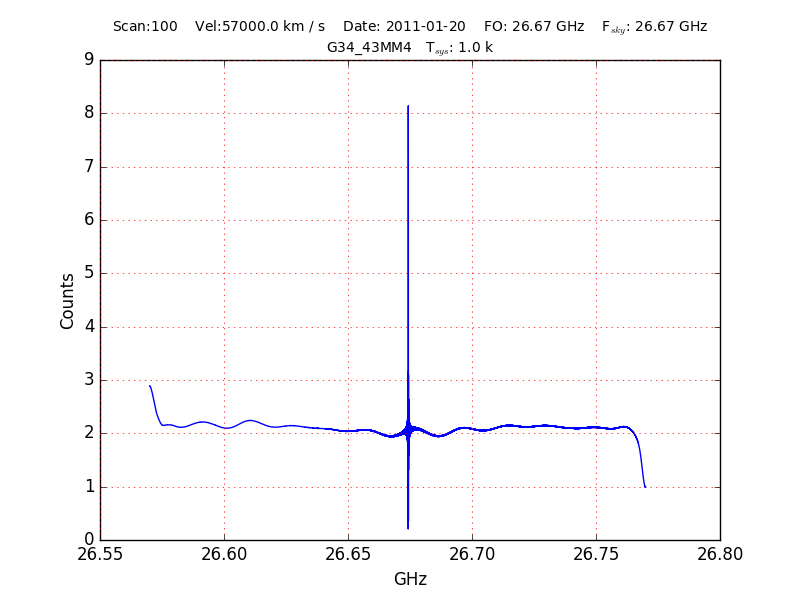
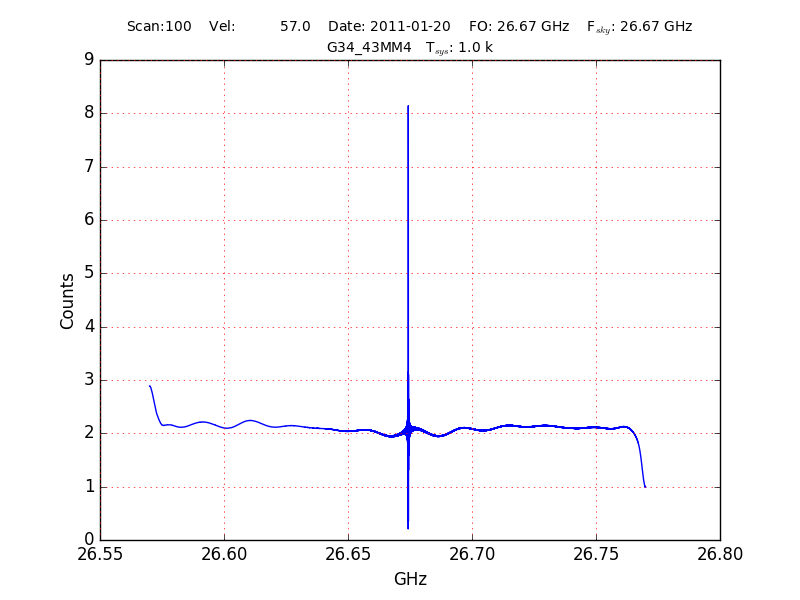
Dani

Changed region(s): [[0.125, 0.03, 0.875, 0.06]]

diff --git a/pipeline/calibrate.py b/pipeline/calibrate.py
@@ -198,7 +198,7 @@ class fit_file:
         record = self.data[np.where(self.data.field('SCAN') == scan)][0]
         central_freq = record.field('RESTFREQ') * u.Hz
         sky_freq = record.field('OBSFREQ') * u.Hz
-        title = "Scan:%s    Vel:%s    Date: %s" % (record.field('SCAN'), str(record.field('VELOCITY')*(u.km / u.s)).rjust(14), record.field('DATE-OBS')[0:10])
+        title = "Scan:%s    Vel:%s    Date: %s" % (record.field('SCAN'), str(record.field('VELOCITY')*(u.m / u.s).to(u.km / u.s)).rjust(14), record.field('DATE-OBS')[0:10])
         title = "%s    FO: %s    F$_{sky}$: %s" % (title, central_freq.to(unit), sky_freq.to(unit).round(2))
         title = "%s\n%s   T$_{sys}$: %s" % (title, record.field('OBJECT'), str(record.field('TSYS')*u.k))
 
